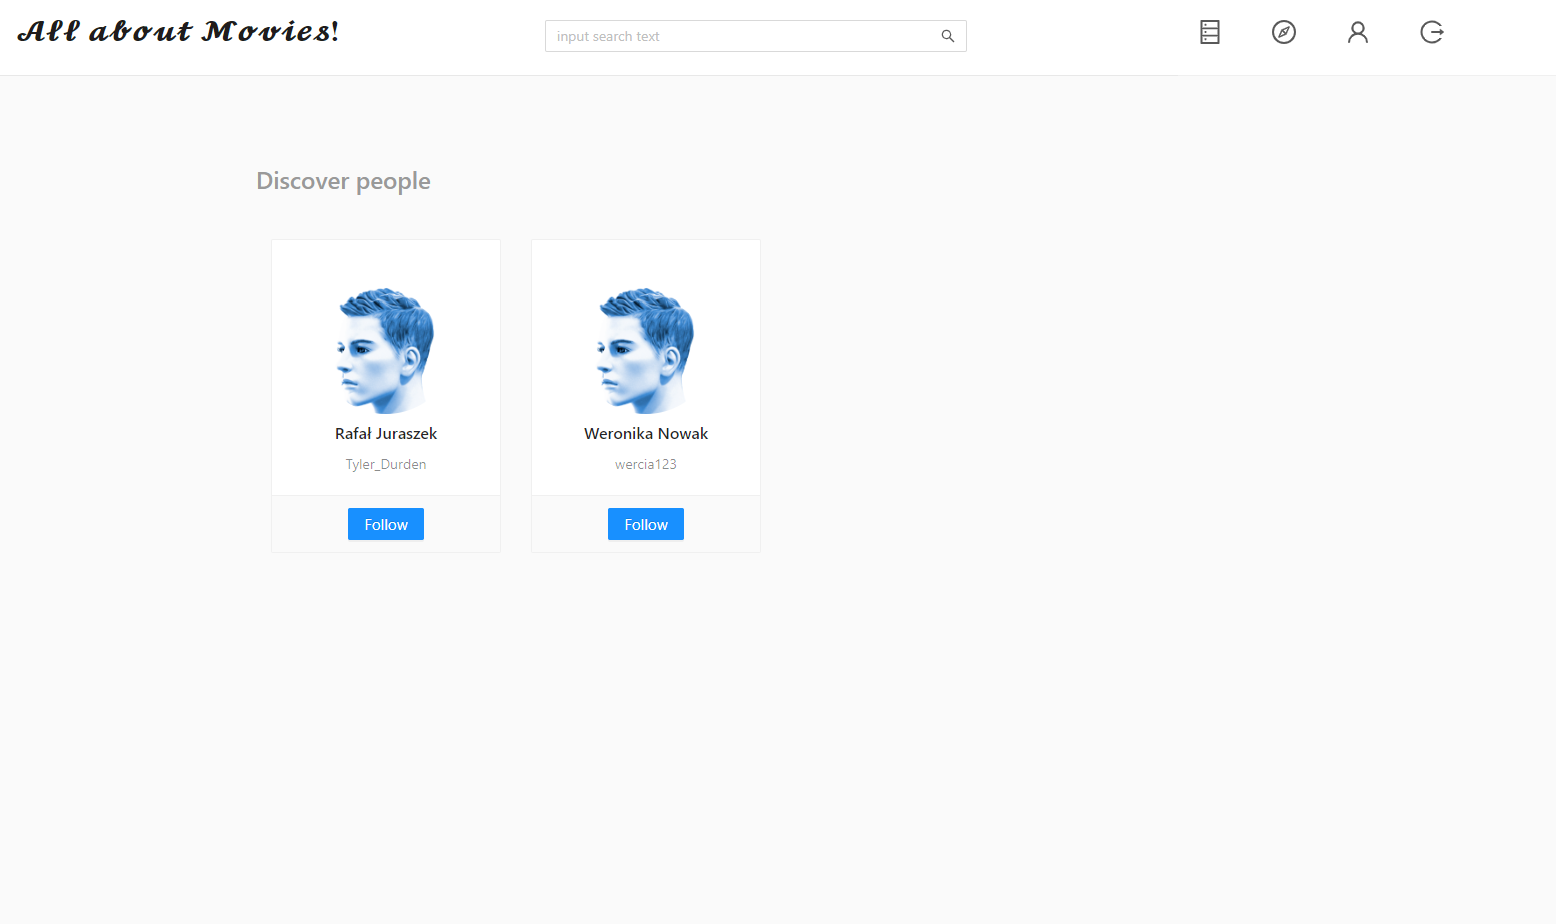
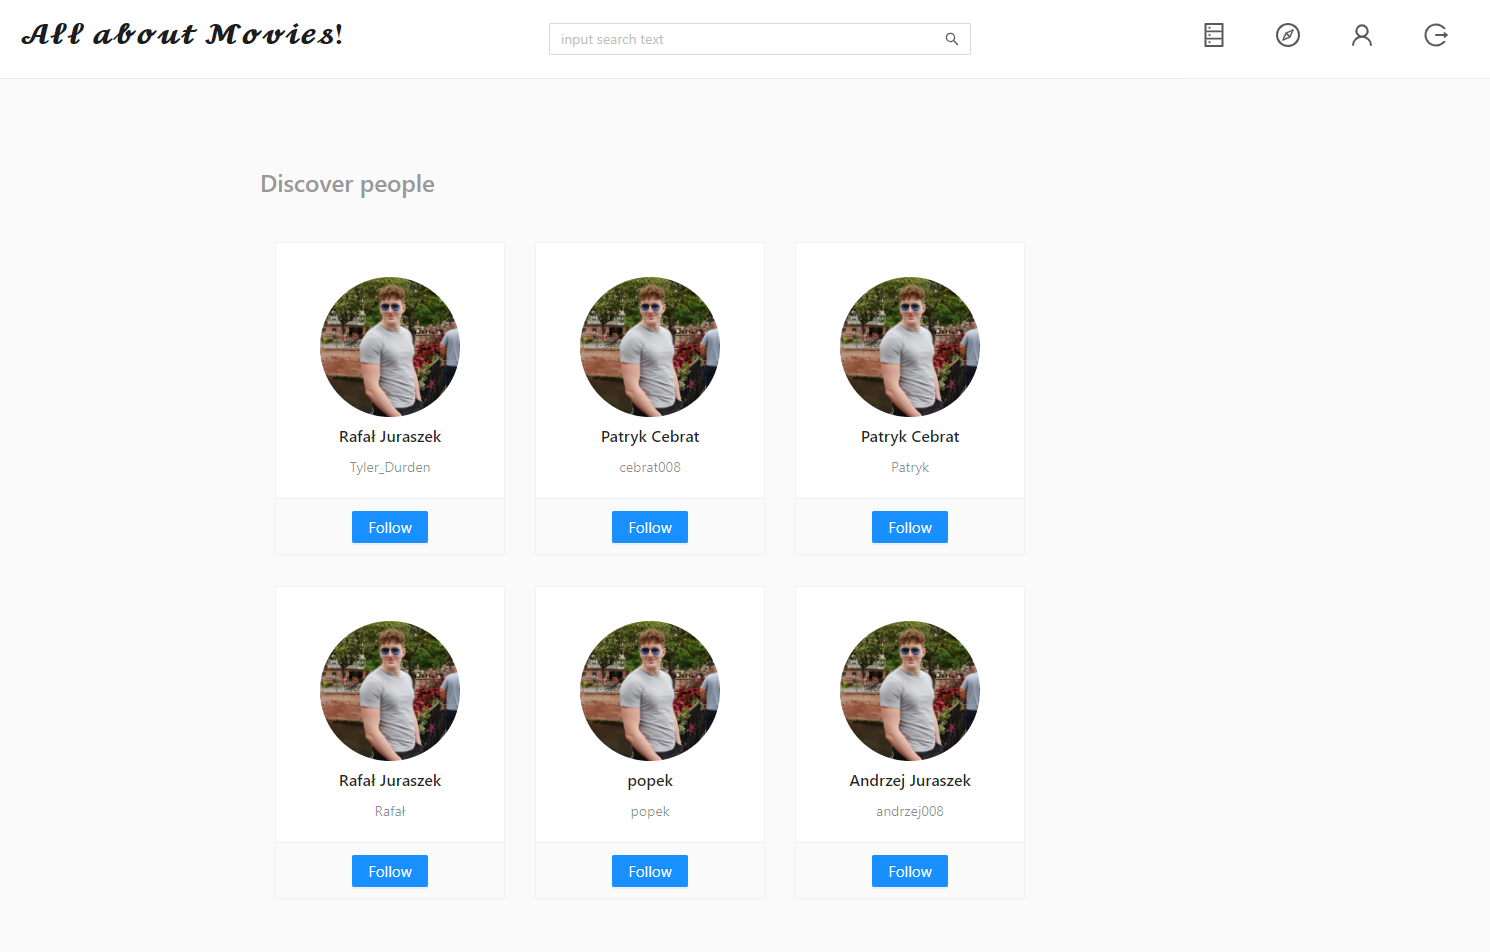
following finished

diff --git a/frontend/src/app/user/other-profile/other-profile.component.ts b/frontend/src/app/user/other-profile/other-profile.component.ts
@@ -1,0 +1,87 @@
+import {Component, OnInit} from '@angular/core';
+import {AuthService} from '../../auth/auth.service';
+import {RelationshipService} from '../services/relationship.service';
+import {RatingService} from '../services/rating.service';
+import {ActivatedRoute, Router} from '@angular/router';
+import {UserService} from '../services/user.service';
+import {UserPayload} from '../../payload/user.payload';
+import {FollowRequestPayload} from '../../payload/follow-request.payload';
+
+@Component({
+  selector: 'app-other-profile',
+  templateUrl: './other-profile.component.html',
+  styleUrls: ['./other-profile.component.css']
+})
+export class OtherProfileComponent implements OnInit {
+
+  data = [
+    {
+      name: 'ratings',
+      number: 10
+    },
+    {
+      name: 'followers',
+      number: 15
+    },
+    {
+      name: 'following',
+      number: 20
+    }
+  ];
+  username;
+  ratingsFilms;
+  currentUser;
+  loggedUser;
+  isFollowing;
+
+  constructor(private authService: AuthService, private relationshipService: RelationshipService, private ratingService: RatingService, private route: ActivatedRoute, private userService: UserService) {
+    this.route.params.subscribe(params => {
+      this.username = params.username;
+    });
+  }
+
+  ngOnInit(): void {
+    this.authService.currentUser.subscribe(user => {
+      this.loggedUser = user;
+    });
+    this.userService.getUserInfo(this.username).subscribe(result => {
+      console.log(result);
+      this.currentUser = result;
+      this.relationshipService.isFollowing(this.loggedUser.username, this.username).subscribe(isFollowing => {
+        this.isFollowing = isFollowing;
+      });
+    });
+    this.ratingService.findUserRatings(this.username).subscribe(result => {
+      this.ratingsFilms = result;
+      this.data[0].number = (result as []).length;
+    });
+    this.relationshipService.getFollowersAndFollowing(this.username).subscribe(result => {
+      this.data[1].number = result.inDegree;
+      this.data[2].number = result.outDegree;
+    });
+
+  }
+
+  follow() {
+    if (this.isFollowing) {
+      console.log('You already follow this user');
+      return;
+    }
+    const follower = new UserPayload(this.loggedUser.id, this.loggedUser.username, this.loggedUser.name);
+    console.log(this.currentUser);
+    const following = new UserPayload(this.currentUser.id, this.currentUser.username, this.currentUser.name);
+
+    const followRequest = new FollowRequestPayload(follower, following);
+    this.relationshipService.follow(followRequest).subscribe(res => {
+      console.log(res);
+      this.isFollowing = true;
+      this.relationshipService.getFollowersAndFollowing(this.username).subscribe(result => {
+        this.data[1].number = result.inDegree;
+        this.data[2].number = result.outDegree;
+      });
+
+    });
+
+  }
+
+}

diff --git a/frontend/src/app/app.module.ts b/frontend/src/app/app.module.ts
@@ -42,6 +42,7 @@ import { RatingsComponent } from './user/ratings/ratings.component';
 import {RatingService} from './user/services/rating.service';
 import { DiscoverComponent } from './user/discover/discover.component';
 import {UserService} from './user/services/user.service';
+import { OtherProfileComponent } from './user/other-profile/other-profile.component';
 
 
 
@@ -50,7 +51,8 @@ const appRoutes: Routes = [
   {path: 'signup', component: SignupComponent},
   {path: 'films', canActivate: [AuthGuard], component: FilmsComponent},
   {path: 'checkFilm', canActivate: [AuthGuard], component: FilmViewComponent},
-  {path: 'profile', canActivate: [AuthGuard], component: ProfileComponent},
+  {path: 'users/me', canActivate: [AuthGuard], component: ProfileComponent},
+  {path: 'users/:username', canActivate: [AuthGuard], component: OtherProfileComponent},
   {path: 'discover', canActivate: [AuthGuard], component: DiscoverComponent}
 ];
 
@@ -68,7 +70,8 @@ const appRoutes: Routes = [
     FilmViewComponent,
     ProfileComponent,
     RatingsComponent,
-    DiscoverComponent
+    DiscoverComponent,
+    OtherProfileComponent
 
   ],
   imports: [

diff --git a/frontend/src/app/user/discover/discover.component.ts b/frontend/src/app/user/discover/discover.component.ts
@@ -5,6 +5,7 @@ import {UserPayload} from '../../payload/user.payload';
 import {FollowRequestPayload} from '../../payload/follow-request.payload';
 import {RelationshipService} from '../services/relationship.service';
 import {UserModel} from '../model/user.model';
+import {Router} from '@angular/router';
 
 @Component({
   selector: 'app-discover',
@@ -16,7 +17,7 @@ export class DiscoverComponent implements OnInit {
   users: UserModel[];
   currentUser: UserModel;
 
-  constructor(private authService: AuthService, private userService: UserService, private relationshipService: RelationshipService) {
+  constructor(private authService: AuthService, private userService: UserService, private relationshipService: RelationshipService, private router: Router) {
   }
 
   ngOnInit(): void {
@@ -45,6 +46,9 @@ export class DiscoverComponent implements OnInit {
       this.users.splice(index, 1);
     });
 
+  }
+  userPicked(pickedUser) {
+    this.router.navigateByUrl('/users/' + pickedUser.username);
   }
 
 

diff --git a/frontend/src/app/user/other-profile/other-profile.component.html b/frontend/src/app/user/other-profile/other-profile.component.html
@@ -1,9 +1,4 @@
 <div class="profile-container">
-
-  <div nz-row nzJustify="end">
-    <button nz-button class="edit-profile">Edit Profile</button>
-    <i nz-icon nzType="setting" class="setting"></i>
-  </div>
   <div nz-row>
     <div nz-col nzSpan="24">
 
@@ -14,6 +9,8 @@
         <h1 class="name">
           {{currentUser.name}}
         </h1>
+
+
 
         <h2 class="username">
           {{currentUser.username}}
@@ -40,6 +37,10 @@
 
   </div>
 
+  <div nz-row nzJustify="center" style="margin-top: 10px;">
+    <button nz-button class="follow-button" (click)="follow()" [nzType]="isFollowing ? 'secondary' : 'primary'" nzSize="large">{{ isFollowing ? 'Following' : 'Follow'}}
+    </button>
+  </div>
 
   <div nz-row style="margin-top: 10px;">
     <div nz-col nzSpan="24">
@@ -67,6 +68,7 @@
 
 
 </div>
+
 
 
 

diff --git a/frontend/src/app/user/other-profile/other-profile.component.spec.ts b/frontend/src/app/user/other-profile/other-profile.component.spec.ts
@@ -1,0 +1,25 @@
+import { async, ComponentFixture, TestBed } from '@angular/core/testing';
+
+import { OtherProfileComponent } from './other-profile.component';
+
+describe('OtherProfileComponent', () => {
+  let component: OtherProfileComponent;
+  let fixture: ComponentFixture<OtherProfileComponent>;
+
+  beforeEach(async(() => {
+    TestBed.configureTestingModule({
+      declarations: [ OtherProfileComponent ]
+    })
+    .compileComponents();
+  }));
+
+  beforeEach(() => {
+    fixture = TestBed.createComponent(OtherProfileComponent);
+    component = fixture.componentInstance;
+    fixture.detectChanges();
+  });
+
+  it('should create', () => {
+    expect(component).toBeTruthy();
+  });
+});

diff --git a/frontend/src/app/user/discover/discover.component.html b/frontend/src/app/user/discover/discover.component.html
@@ -8,9 +8,9 @@
       <nz-card [nzHoverable]="true" style="margin: 15px; width: 230px;"
                [nzActions]="[action]">
 
-        <div class="avatar-container">
+        <div class="avatar-container" (click)="userPicked(user)">
           <nz-avatar nzIcon="user" class="avatar"
-                     nzSrc="//zos.alipayobjects.com/rmsportal/ODTLcjxAfvqbxHnVXCYX.png"></nz-avatar>
+                     nzSrc="assets/img/most.jpeg"></nz-avatar>
         </div>
         <nz-card-meta [nzTitle]="user.name" [nzDescription]="user.username"
                       class="card-meta"></nz-card-meta>

diff --git a/frontend/src/app/films/film-view/film-view.component.html b/frontend/src/app/films/film-view/film-view.component.html
@@ -39,10 +39,10 @@
 
 
     <div nz-col nzSpan="8" nzPush="2" class="rate-container">
-      <nz-avatar [nzSize]="64" nzIcon="user"
-                 nzSrc="//zos.alipayobjects.com/rmsportal/ODTLcjxAfvqbxHnVXCYX.png"></nz-avatar>
+      <nz-avatar [nzSize]="75" nzIcon="user"
+                 nzSrc="assets/img/schody.jpeg"></nz-avatar>
       <span
-        style="font-weight: 700;"
+        style="font-weight: 700; margin-left: 2px;"
       >
      {{ value ? tooltips[value - 1] : 'I saw, my rating' }}
       </span>

diff --git a/frontend/src/app/user/services/relationship.service.ts b/frontend/src/app/user/services/relationship.service.ts
@@ -25,6 +25,9 @@ export class RelationshipService {
   findFollowing(username): Observable<any> {
     return this.httpService.get<any>(this.API_URL + 'users/' + username + '/following');
   }
+  isFollowing(usernameA, usernameB): Observable<boolean> {
+    return this.httpService.get<boolean>(this.API_URL + 'users/' + usernameA + '/following' + usernameB);
+  }
 
 
 }

diff --git a/frontend/src/app/user/services/user.service.ts b/frontend/src/app/user/services/user.service.ts
@@ -15,4 +15,7 @@ export class UserService {
     return this.httpService.get<[UserModel]>(this.BASIC_URL + 'auth/users/summary');
 
   }
+  getUserInfo(username): Observable<UserModel> {
+    return this.httpService.get<UserModel>(this.BASIC_URL + 'auth/users/summary/' + username);
+  }
 }

diff --git a/frontend/src/app/common/header/header.component.html b/frontend/src/app/common/header/header.component.html
@@ -32,7 +32,7 @@
         </li>
 
         <li nz-menu-item title="User">
-          <a routerLink="profile">
+          <a routerLink="users/me">
             <i nz-icon nzType="user" nzTheme="outline"></i>
           </a>
         </li>

diff --git a/frontend/src/app/user/other-profile/other-profile.component.css b/frontend/src/app/user/other-profile/other-profile.component.css
@@ -50,5 +50,9 @@
   cursor: pointer;
 }
 
+.follow-button {
+  font-weight: 700;
+}
+
 
 

diff --git a/README.md b/README.md
@@ -28,4 +28,6 @@ You can use command from `init.data` file in order to initialize mongo database.
 
 ![Image7](pictures/profile.PNG)
 
+![Image7](pictures/other_profile.PNG)
+
 ![Image8](pictures/discover.PNG)
